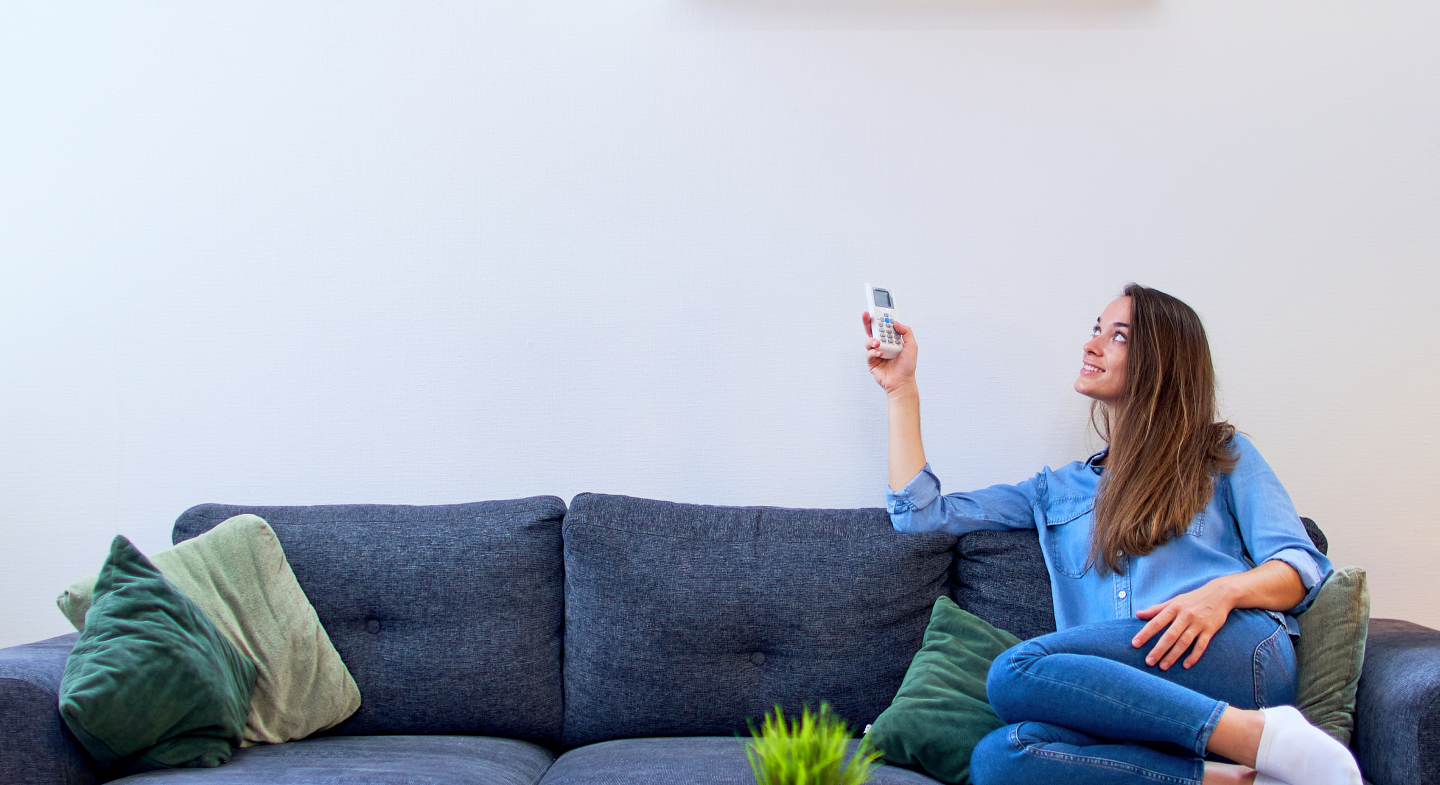
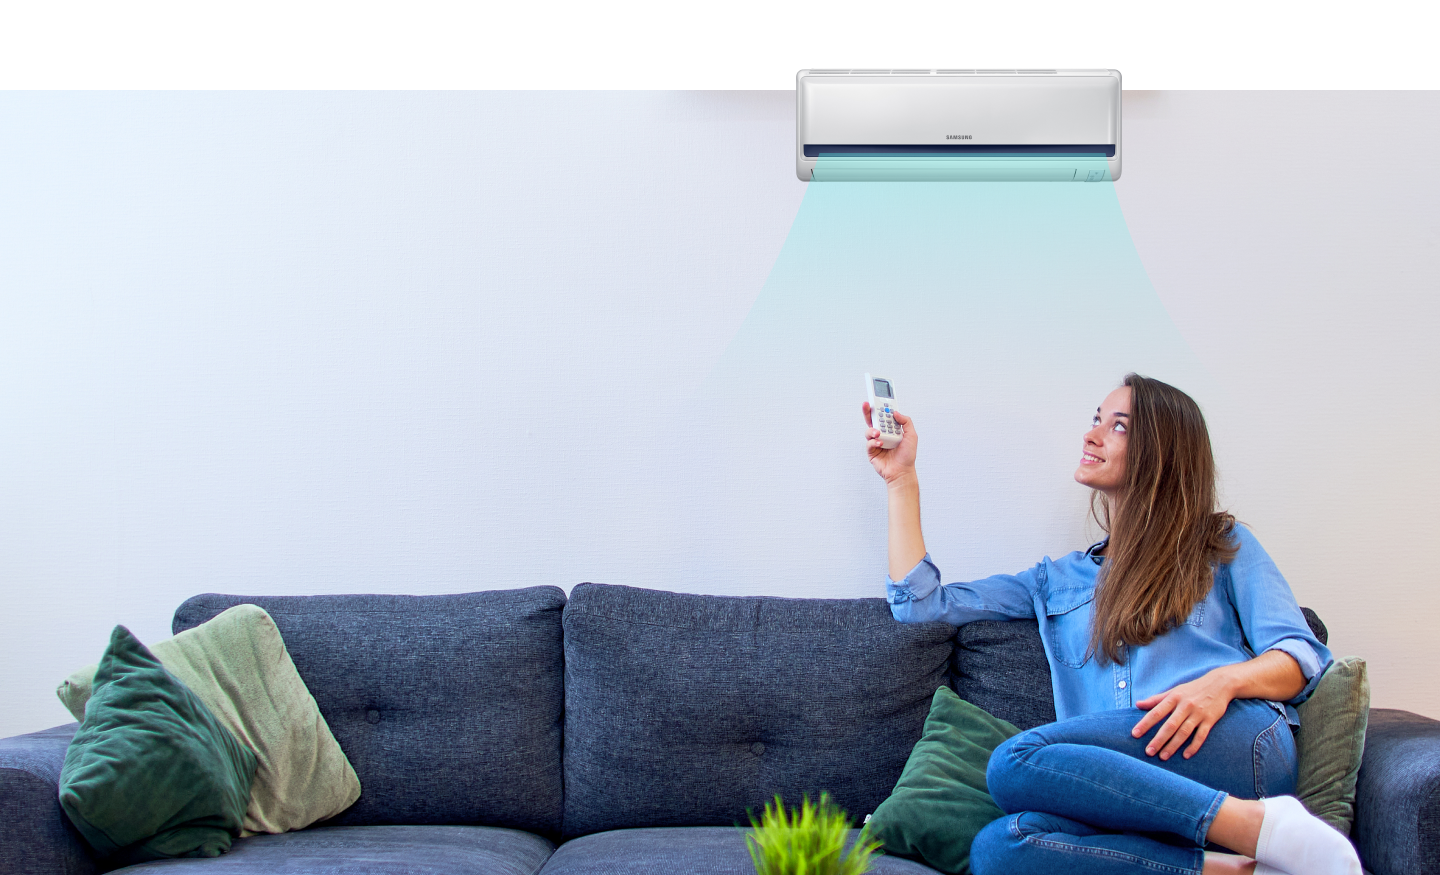
header & hero area done

Changed region(s): [[0.0, 0.3669, 1.0, 1.0], [0.0, 0.0, 1.0, 0.2752], [0.625, 0.9783, 0.6562, 1.0]]

diff --git a/index.html b/index.html
@@ -13,22 +13,122 @@
   <link rel="stylesheet" href="https://cdn.jsdelivr.net/npm/bootstrap-icons@1.9.1/font/bootstrap-icons.css">
   <link href="https://cdn.jsdelivr.net/npm/bootstrap@5.2.1/dist/css/bootstrap.min.css" rel="stylesheet"
     integrity="sha384-iYQeCzEYFbKjA/T2uDLTpkwGzCiq6soy8tYaI1GyVh/UjpbCx/TYkiZhlZB6+fzT" crossorigin="anonymous">
+  <link rel="stylesheet" href="https://cdnjs.cloudflare.com/ajax/libs/font-awesome/6.2.0/css/all.min.css"
+    integrity="sha512-xh6O/CkQoPOWDdYTDqeRdPCVd1SpvCA9XXcUnZS2FmJNp1coAFzvtCN9BmamE+4aHK8yyUHUSCcJHgXloTyT2A=="
+    crossorigin="anonymous" referrerpolicy="no-referrer" />
+  <link rel="stylesheet" href="style.css">
   <title>Airconist</title>
-  <style>
-    * {
-      font-family: 'Poppins', sans-serif;
-    }
-  </style>
 </head>
 
 <body>
-  <div class="container">
-    <h1 class="text-center text-danger bg-dark">Hello</h1>
-    <p>Lorem ipsum dolor sit amet consectetur adipisicing elit. Possimus cumque nam earum non, expedita, doloribus in enim, dolores optio architecto vitae cum hic. Quisquam officia praesentium reiciendis necessitatibus magni quo iste eius laboriosam. Ex iure, porro doloribus et architecto nihil asperiores. Delectus incidunt libero tempora voluptas obcaecati ipsam cumque repellendus minima recusandae cupiditate a consequuntur porro officiis quam doloribus, maiores, temporibus nemo quia. Quia, doloribus iusto. Facilis id voluptatum quas illo delectus aliquid mollitia veritatis illum accusantium velit porro possimus, doloribus a dignissimos! Nulla amet laudantium, quas quibusdam ab, voluptas quasi odit voluptates nostrum incidunt ex reiciendis quod recusandae laboriosam corrupti. Quis, eius dolore molestiae iusto iure maiores aliquam harum, officiis corrupti sequi natus assumenda minus tempore doloremque delectus alias. In ipsa incidunt voluptas sequi aut eos a amet ea omnis libero! Laboriosam consectetur molestias perspiciatis vitae illo quaerat neque numquam libero ex consequuntur, recusandae officiis illum facere molestiae aliquam impedit minima! Doloremque
-      
-    </p>
-  </div>
+
+  <header class="navbar-top sticky-top bg-body">
+    <div class="container">
+      <nav class="navbar navbar-expand-lg">
+        <div class="container-fluid p-0">
+          <button class="navbar-toggler" type="button" data-bs-toggle="collapse" data-bs-target="#navbarNav0"
+            aria-controls="navbarNav" aria-expanded="false" aria-label="Toggle navigation">
+            <span class="navbar-toggler-icon"></span>
+          </button>
+
+          <div class="collapse navbar-collapse d-flex justify-content-between" id="navbarNav0">
+            <ul class="navbar-nav header-icons">
+              <li class="nav-item d-flex justify-content-center align-items-center">
+                <a class="nav-link" aria-current="page" href="#">
+                  <i class="fa-brands fa-facebook-f"></i>
+                </a>
+              </li>
+              <li class="nav-item d-flex justify-content-center align-items-center">
+                <a class="nav-link" aria-current="page" href="#">
+                  <i class="fa-brands fa-twitter"></i>
+                </a>
+              </li>
+              <li class="nav-item d-flex justify-content-center align-items-center">
+                <a class="nav-link" aria-current="page" href="#">
+                  <i class="fa-brands fa-linkedin-in"></i>
+                </a>
+              </li>
+            </ul>
+            <ul class="navbar-nav">
+              <li class="nav-item d-flex justify-content-center align-items-center">
+                <a class="nav-link" aria-current="page" href="#">
+                  <i class="bi-envelope-fill"></i>
+                </a>
+                <p>Acservices@gmail.com</p>
+              </li>
+              <li class="nav-item d-flex justify-content-center align-items-center">
+                <a class="nav-link" aria-current="page" href="#">
+                  <i class="fa fa-phone"></i>
+                </a>
+                <p>0333 090 2009</p>
+              </li>
+            </ul>
+          </div>
+        </div>
+      </nav>
+    </div>
+  </header>
+
+
+
   
+
+  <section id="hero">
+    <div class="container nav-container">
+      <nav class="navbar navbar-expand-lg bg-body">
+        <div class="container-fluid p-0">
+          <a class="navbar-brand">
+            <img src="./img/logo/logo.png" class="img-fluid" alt="brand">
+          </a>
+          <button class="navbar-toggler" type="button" data-bs-toggle="collapse" data-bs-target="#navbarNav"
+            aria-controls="navbarNav" aria-expanded="false" aria-label="Toggle navigation">
+            <span class="navbar-toggler-icon"></span>
+          </button>
+          <div class="collapse navbar-collapse d-flex justify-content-end" id="navbarNav">
+            <ul class="navbar-nav">
+              <li class="nav-item">
+                <a class="nav-link active" aria-current="page" href="#">Services</a>
+              </li>
+              <li class="nav-item">
+                <a class="nav-link" href="#">About</a>
+              </li>
+              <li class="nav-item">
+                <a class="nav-link" href="#">Pricing</a>
+              </li>
+              <li class="nav-item">
+                <a class="nav-link" href="#">Shop</a>
+              </li>
+              <li class="nav-item">
+                <a class="nav-link" href="#">Contact</a>
+              </li>
+              <li class="nav-item">
+                <a class="nav-link" href="#">Faq</a>
+              </li>
+              <li class="nav-item">
+                <a class="nav-link" id="book-now" href="#">Book Now</a>
+              </li>
+            </ul>
+          </div>
+        </div>
+      </nav>
+    </div>
+    <div class="container title-container">
+      <h1 class="hero-title">
+        Gauranteed comfort <br>
+        <span> in summer </span> throughout <br>
+        the year
+      </h1>
+      <p>We help our customers to control heating and cooling <br>
+        without the need to waste electrical energy
+      </p>
+    </div>
+
+  </section>
+
+  <div style="height: 2000px;">
+
+  </div>
+
 
 
 

diff --git a/style.css b/style.css
@@ -1,0 +1,89 @@
+:root {
+  --primary: #56ccf2;
+  --black: #000;
+  --off-black: #3d3d3d;
+  --white: #fff;
+  --off-white: #f5f5f5;
+}
+* {
+  font-family: "Poppins", sans-serif;
+}
+a {
+  transition: all 0.3s;
+}
+.navbar-top {
+  box-shadow: 0px 12px 40px rgba(0, 0, 0, 0.04);
+}
+.header-icons li {
+  height: 47px;
+  width: 47px;
+  background-color: var(--off-white);
+  border-radius: 50%;
+  margin-left: 0.7rem !important;
+}
+i {
+  display: flex;
+  justify-content: center;
+  align-items: center;
+}
+.navbar-brand img {
+  height: 44px;
+}
+.nav-item p {
+  margin-bottom: 0;
+  font-size: 15px;
+}
+.active {
+  color: var(--primary) !important ;
+}
+#book-now {
+  background-color: var(--primary);
+  color: var(--whilte);
+  height: 35px;
+  width: 135px;
+  border-radius: 17.5px;
+}
+.navbar-nav li {
+  margin-left: 2rem;
+  text-align: center;
+  font-size: 20px;
+  display: flex;
+  align-items: center;
+}
+.navbar-nav .nav-item a {
+  color: var(--dark);
+  display: flex;
+  justify-content: center;
+  align-items: center;
+}
+.navbar-nav .nav-item a:hover {
+  color: var(--primary);
+}
+/*========================== Hero ==============================*/
+#hero {
+  height: 875px;
+  background-image: url(/img/hero.png);
+  z-index: -2;
+}
+#hero .nav-container{
+  height: 90px;
+}
+
+#hero .title-container {
+  position: absolute;
+  width: 500px;
+  height: 165px;
+  left: 150px;
+  top: 265px;
+}
+#hero .hero-title {
+  font-size: 42px;
+  font-weight: 700;
+  line-height: 55px;
+  letter-spacing: 0em;
+  text-align: left;
+}
+#hero .hero-title span {
+  color: var(--primary);
+  text-decoration: line-through;
+}
